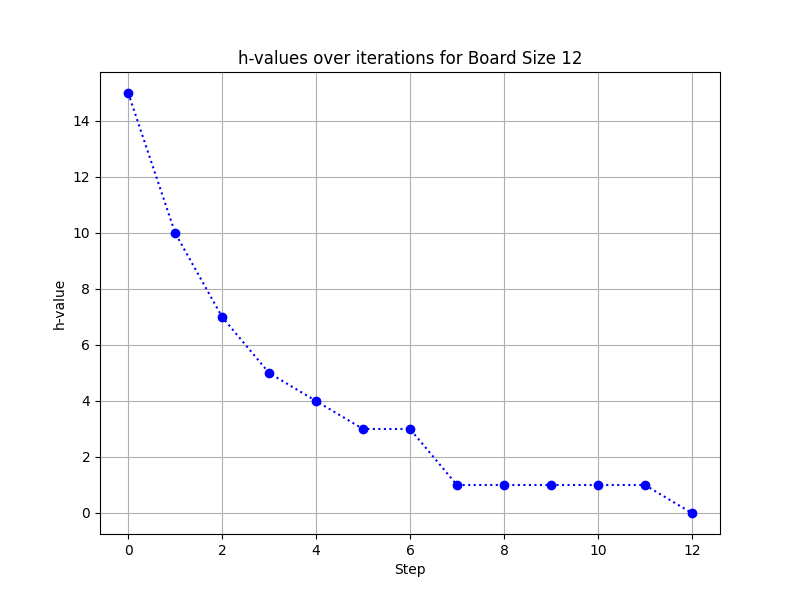
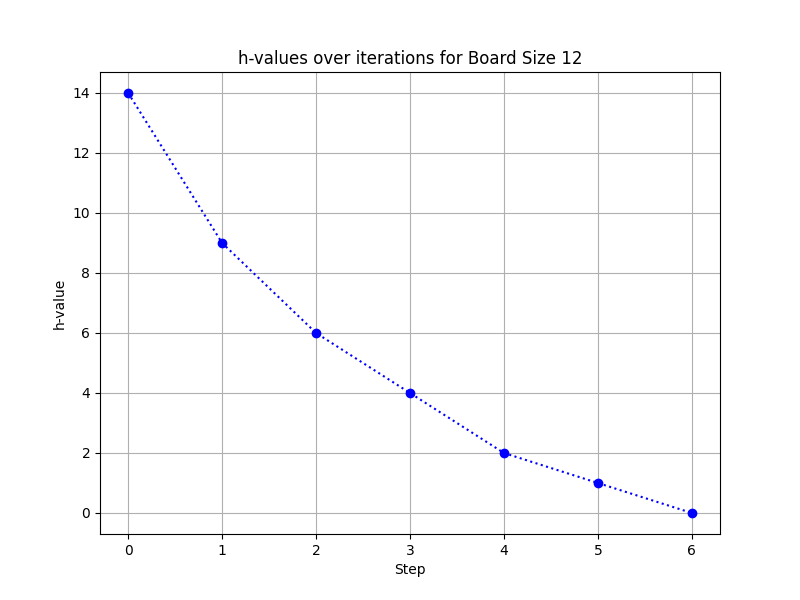
Images

diff --git a/tp5-busquedas-locales/code/main.py b/tp5-busquedas-locales/code/main.py
@@ -90,6 +90,10 @@ def _save_results(results, queen_counts):
                 elif local_search_result.board.cached_threats < best_result.board.cached_threats:
                     best_result = local_search_result
 
+                elif local_search_result.board.cached_threats == best_result.board.cached_threats:
+                    if local_search_result.traversed_states < best_result.traversed_states:
+                        best_result = local_search_result
+
             plot_h_values(best_result, f"../images/h_values/{algorithm_name}/queen_count={queen_count}.png")
 
 
